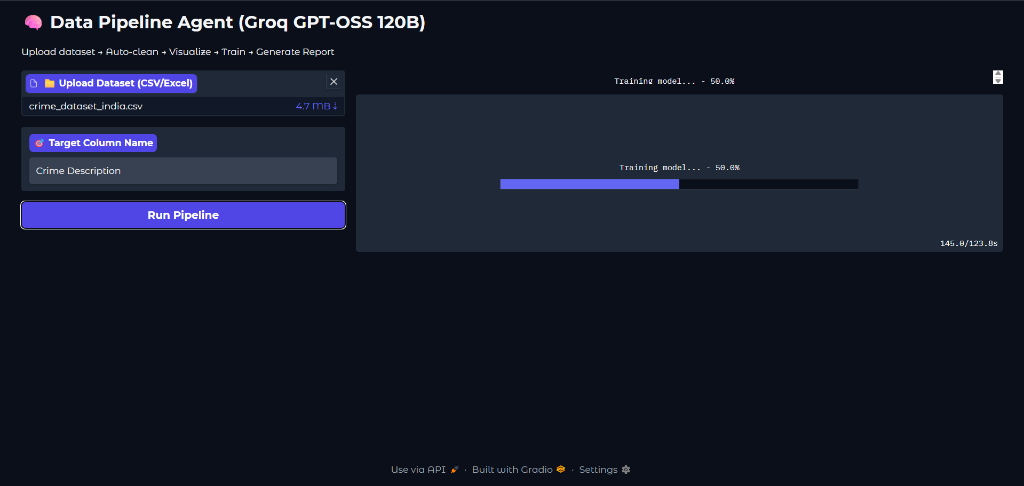
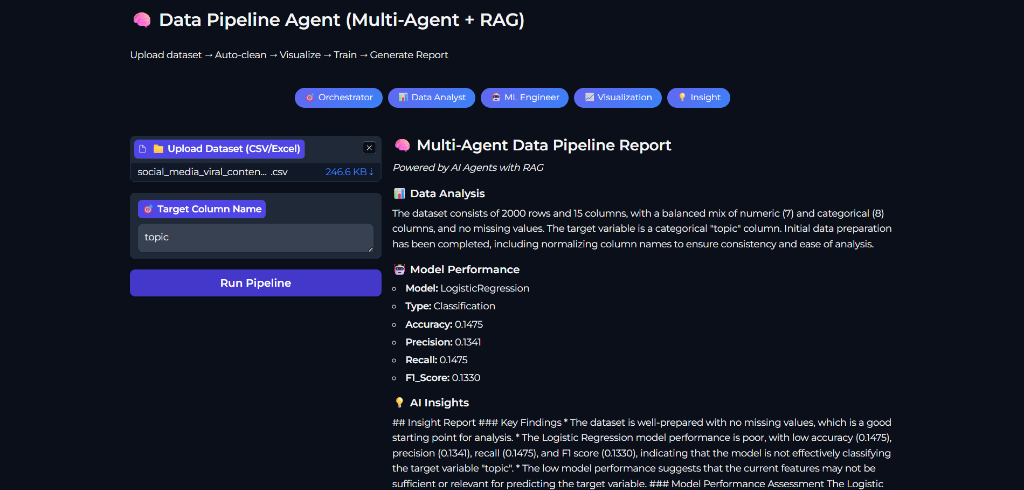
Update Data Pipeline Agent to Multi-Agent version with RAG and live Hugging Face deployment

diff --git a/constants.ts b/constants.ts
@@ -95,9 +95,10 @@ export const PROJECTS: Project[] = [
   },
   {
     id: '8',
-    title: 'Data Pipeline Agent',
-    description: 'AI-powered data processing pipeline that auto-cleans datasets, generates visualizations, and trains ML models with intelligent insights from Groq GPT-OSS 120B. Features SMOTE for class imbalance.',
-    tags: ['Python', 'FastAPI', 'Scikit-learn', 'Groq AI', 'Gradio', 'Docker'],
+    title: 'Multi-Agent Data Pipeline Builder',
+    description: 'Intelligent multi-agent AI system with 5 specialized agents (Orchestrator, Data Analyst, ML Engineer, Visualization, Insight) and RAG-powered recommendations using ChromaDB for context-aware data science automation.',
+    tags: ['Python', 'Gradio', 'Scikit-learn', 'ChromaDB', 'Groq AI', 'RAG'],
+    liveLink: 'https://maheshnath09-data-pipeline-agent.hf.space/',
     repoLink: 'https://github.com/Maheshnath09/data-pipeline-agent',
     thumbnailUrl: '/data-pipeline-thumb.png'
   },
